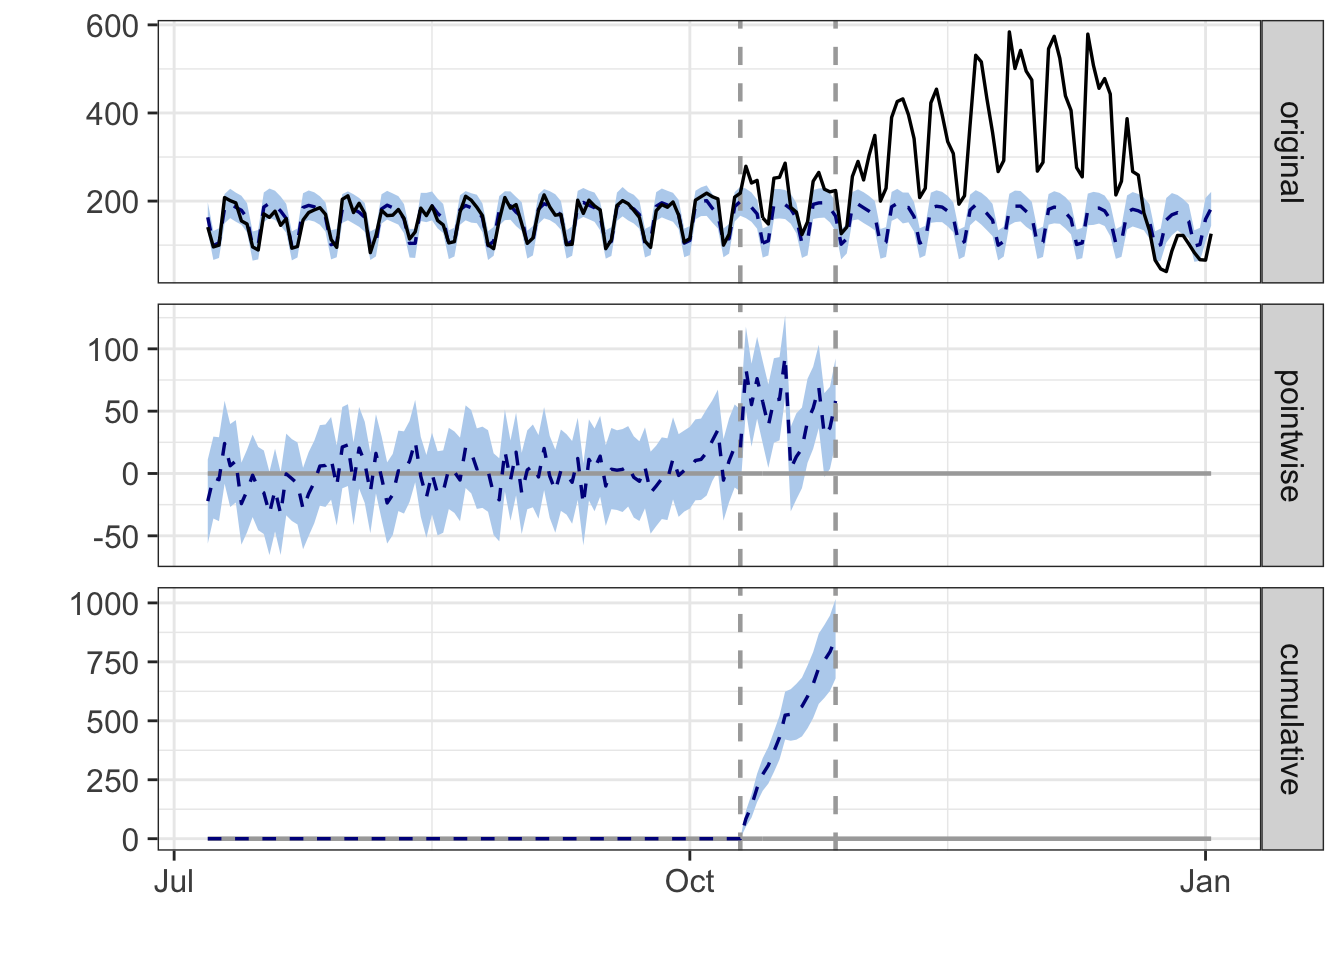
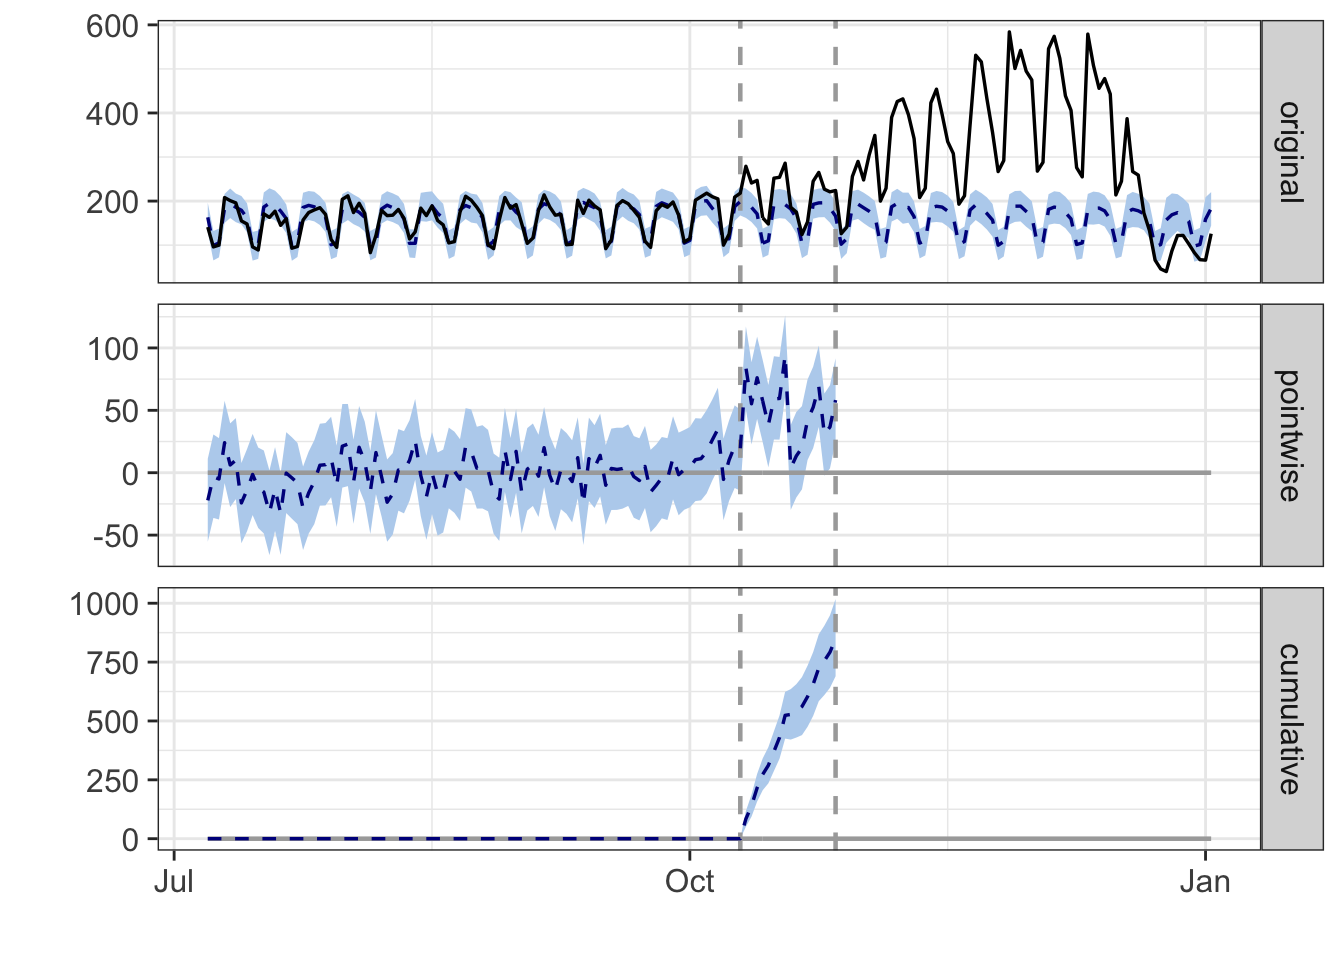
Edited phrasing in Awesome causal impact analysis

Changed region(s): [[0.1562, 0.4688, 0.5625, 0.5], [0.0625, 0.4062, 0.0938, 0.4375], [0.0625, 0.3438, 0.0938, 0.375]]

diff --git a/blog/awesome-causal-impact/index.html b/blog/awesome-causal-impact/index.html
@@ -9,15 +9,15 @@
   <meta property="og:title" content="Effect of landing page and upgrade modal intervention on Awesome MRR" />
   <meta name="twitter:title" content="Effect of landing page and upgrade modal intervention on Awesome MRR" />
   <meta name="description" content="TL;DR  Changes to the app and landing pages have led to a large (30%) and significant increase in Awesome trial starts.
- The changes have not yet made any detectable effect on Awesome MRR, which still stagnates.
- Awesome trialists still need time to convert and finish trials.
-   Background Back in September, Buffer experienced a period of relatively low MRR growth. This was especially impactful for the Awesome plans, which saw a sharp and distinct decrease in growth.">
+ There are indications of a positive effect on Awesome MRR, but the probability of a true effect is inconclusive.
+ The free plan experiment was a major confounding factor that did increase Awesome MRR.
+   Background Back in September, Buffer experienced a period of relatively low MRR growth.">
   <meta property="og:description" content="TL;DR  Changes to the app and landing pages have led to a large (30%) and significant increase in Awesome trial starts.
- The changes have not yet made any detectable effect on Awesome MRR, which still stagnates.
- Awesome trialists still need time to convert and finish trials.
-   Background Back in September, Buffer experienced a period of relatively low MRR growth. This was especially impactful for the Awesome plans, which saw a sharp and distinct decrease in growth.">
+ There are indications of a positive effect on Awesome MRR, but the probability of a true effect is inconclusive.
+ The free plan experiment was a major confounding factor that did increase Awesome MRR.
+   Background Back in September, Buffer experienced a period of relatively low MRR growth.">
   <meta name="twitter:description" content="TL;DR  Changes to the app and landing pages have led to a large (30%) and significant increase in Awesome trial starts.
- The changes have not yet made any detectable effect on Awesome MRR, which still …">
+ There are indications of a positive effect on Awesome MRR, but the probability …">
   <meta name="author" content="Julian Winternheimer"/>
   <link href='/img/favicon.ico' rel='icon' type='image/x-icon'/>
   <meta property="og:image" content="/img/julian-avatar.png" />
@@ -210,8 +210,8 @@
 <h3>TL;DR</h3>
 <ul>
 <li><p>Changes to the app and landing pages have led to a large (30%) and significant increase in Awesome trial starts.</p></li>
-<li><p>The changes have not yet made any detectable effect on Awesome MRR, which still stagnates.</p></li>
-<li><p>Awesome trialists still need time to convert and finish trials.</p></li>
+<li><p>There are indications of a positive effect on Awesome MRR, but the probability of a true effect is inconclusive.</p></li>
+<li><p>The free plan experiment was a major confounding factor that did increase Awesome MRR.</p></li>
 </ul>
 </div>
 <div id="background" class="section level3">
@@ -264,13 +264,13 @@ summary(impact)</code></pre>
 ## 
 ##                          Average      Cumulative  
 ## Actual                   217          3689        
-## Prediction (s.d.)        167 (5.1)    2839 (85.9) 
-## 95% CI                   [157, 177]   [2673, 3009]
+## Prediction (s.d.)        167 (4.9)    2839 (83.6) 
+## 95% CI                   [157, 176]   [2671, 2999]
 ##                                                   
-## Absolute effect (s.d.)   50 (5.1)     850 (85.9)  
-## 95% CI                   [40, 60]     [680, 1016] 
+## Absolute effect (s.d.)   50 (4.9)     850 (83.6)  
+## 95% CI                   [41, 60]     [690, 1018] 
 ##                                                   
-## Relative effect (s.d.)   30% (3%)     30% (3%)    
+## Relative effect (s.d.)   30% (2.9%)   30% (2.9%)  
 ## 95% CI                   [24%, 36%]   [24%, 36%]  
 ## 
 ## Posterior tail-area probability p:   2e-04
@@ -323,16 +323,16 @@ summary(mrr_impact)</code></pre>
 ## 
 ##                          Average              Cumulative        
 ## Actual                   5.8e+05              1.2e+07           
-## Prediction (s.d.)        5.8e+05 (596)        1.2e+07 (12509)   
+## Prediction (s.d.)        5.8e+05 (596)        1.2e+07 (12506)   
 ## 95% CI                   [5.8e+05, 5.8e+05]   [1.2e+07, 1.2e+07]
 ##                                                                 
-## Absolute effect (s.d.)   486 (596)            10202 (12509)     
-## 95% CI                   [-683, 1641]         [-14338, 34466]   
+## Absolute effect (s.d.)   486 (596)            10202 (12506)     
+## 95% CI                   [-681, 1636]         [-14298, 34350]   
 ##                                                                 
 ## Relative effect (s.d.)   0.083% (0.1%)        0.083% (0.1%)     
 ## 95% CI                   [-0.12%, 0.28%]      [-0.12%, 0.28%]   
 ## 
-## Posterior tail-area probability p:   0.20813
+## Posterior tail-area probability p:   0.20628
 ## Posterior prob. of a causal effect:  79%
 ## 
 ## For more details, type: summary(impact, &quot;report&quot;)</code></pre>

diff --git a/blog/index.html b/blog/index.html
@@ -191,9 +191,9 @@
               <div class="post-entry">
                 
                   TL;DR  Changes to the app and landing pages have led to a large (30%) and significant increase in Awesome trial starts.
- The changes have not yet made any detectable effect on Awesome MRR, which still stagnates.
- Awesome trialists still need time to convert and finish trials.
-   Background Back in September, Buffer experienced a period of relatively low MRR growth. This was especially impactful for the Awesome plans, which saw a sharp and distinct decrease in growth.
+ There are indications of a positive effect on Awesome MRR, but the probability of a true effect is inconclusive.
+ The free plan experiment was a major confounding factor that did increase Awesome MRR.
+   Background Back in September, Buffer experienced a period of relatively low MRR growth.
                   <a href="/blog/awesome-causal-impact/" class="post-read-more">[Read More]</a>
                 
               </div>

diff --git a/index.html b/index.html
@@ -208,9 +208,9 @@
               <div class="post-entry">
                 
                   TL;DR  Changes to the app and landing pages have led to a large (30%) and significant increase in Awesome trial starts.
- The changes have not yet made any detectable effect on Awesome MRR, which still stagnates.
- Awesome trialists still need time to convert and finish trials.
-   Background Back in September, Buffer experienced a period of relatively low MRR growth. This was especially impactful for the Awesome plans, which saw a sharp and distinct decrease in growth.
+ There are indications of a positive effect on Awesome MRR, but the probability of a true effect is inconclusive.
+ The free plan experiment was a major confounding factor that did increase Awesome MRR.
+   Background Back in September, Buffer experienced a period of relatively low MRR growth.
                   <a href="/blog/awesome-causal-impact/" class="post-read-more">[Read More]</a>
                 
               </div>
